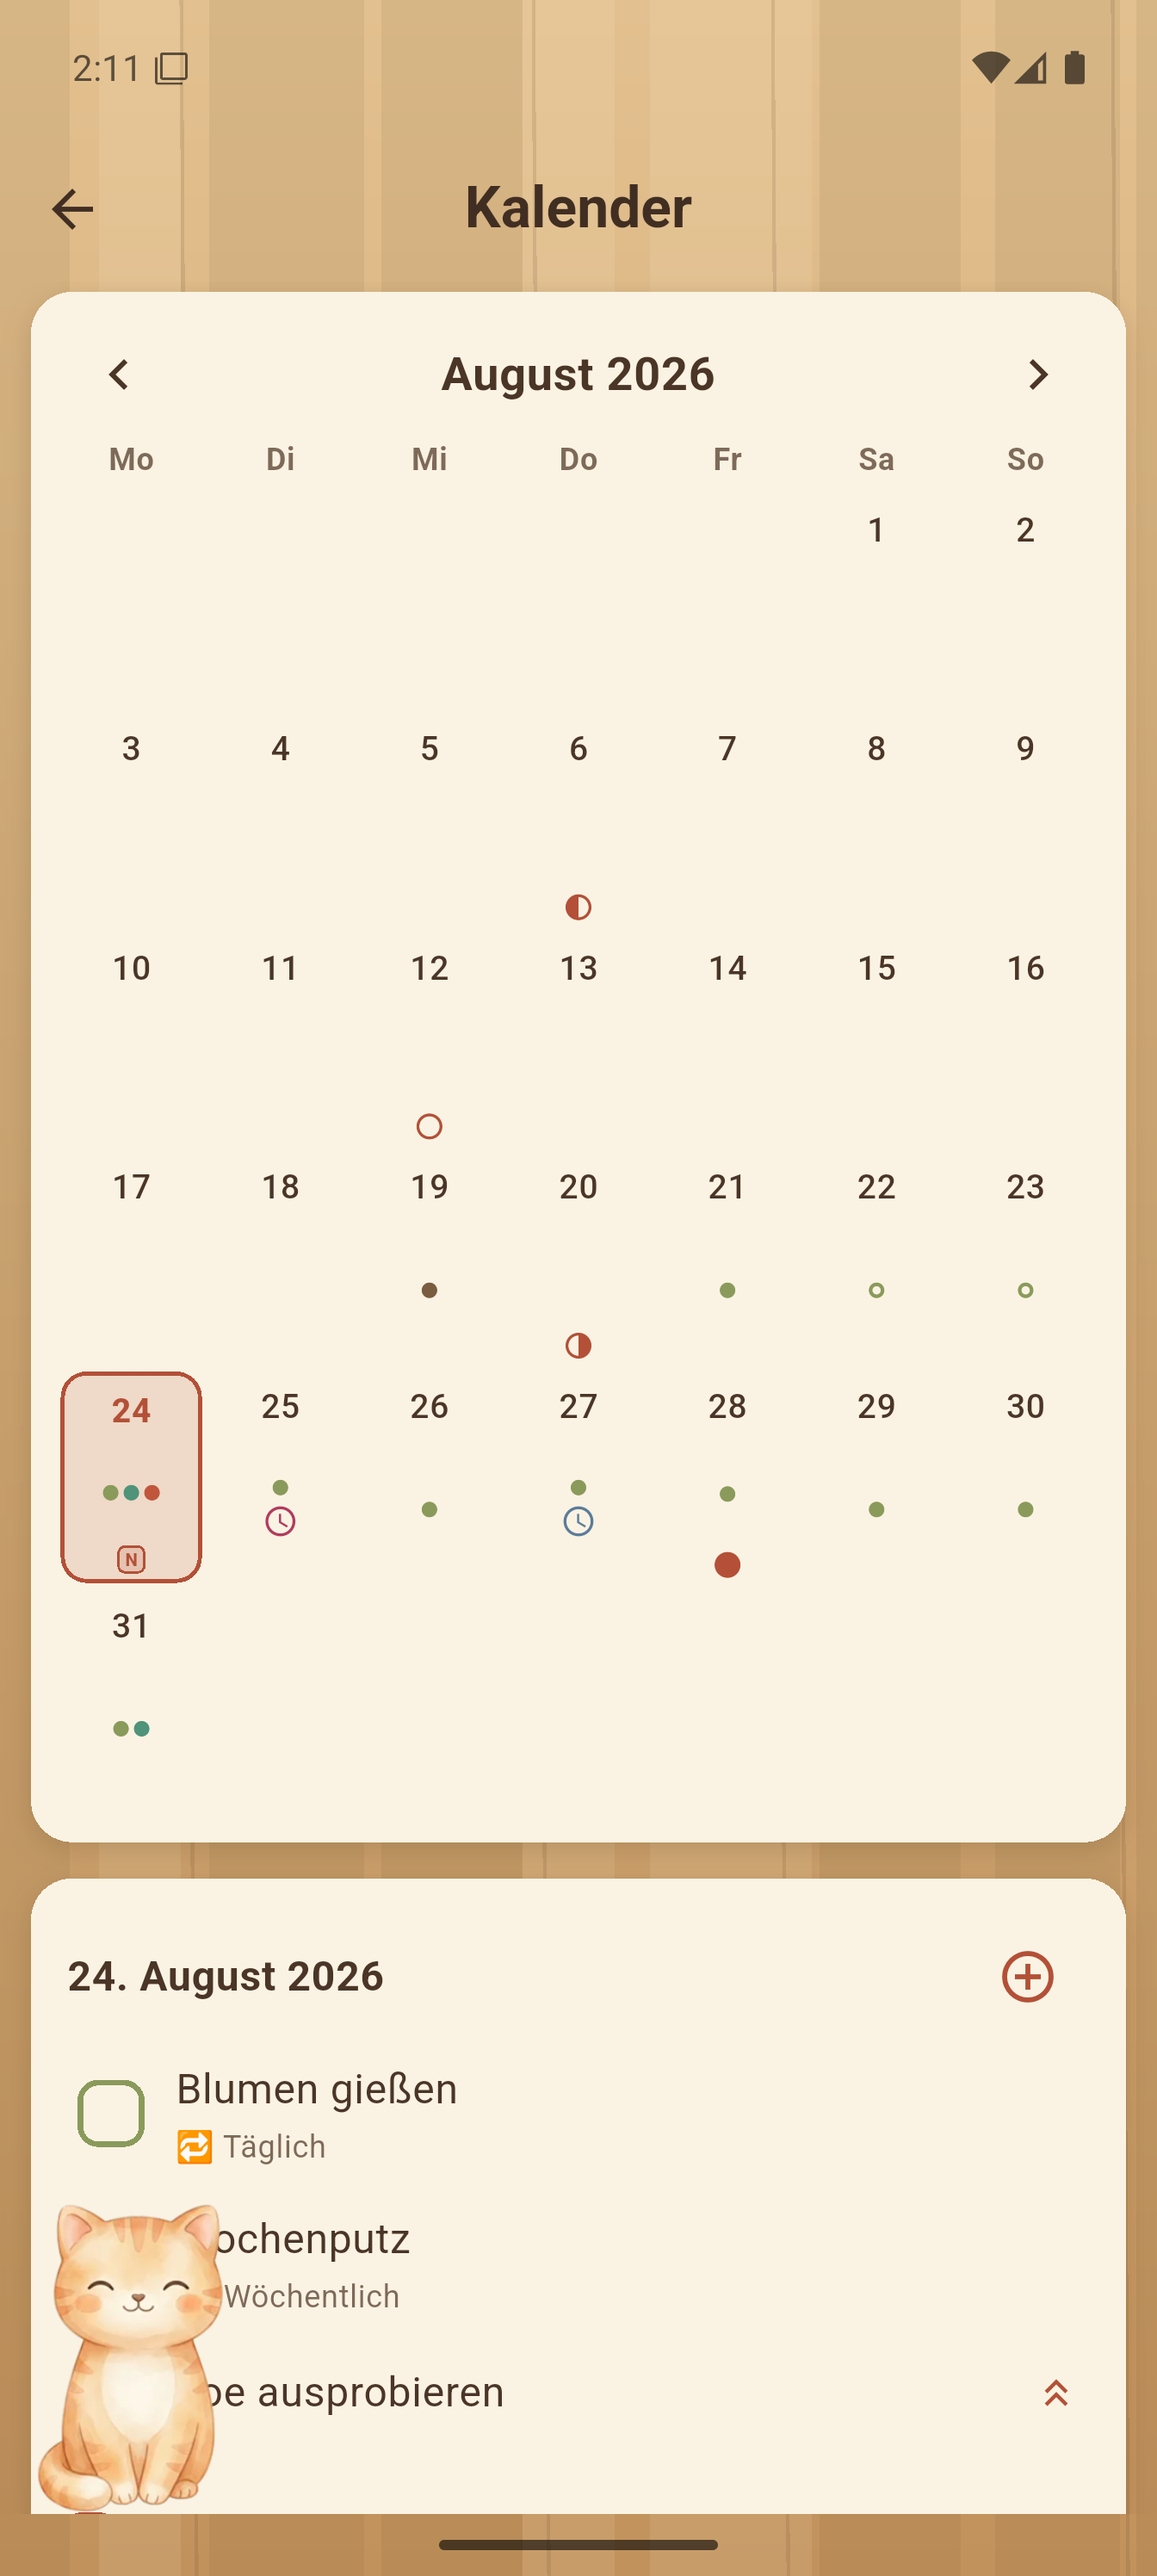
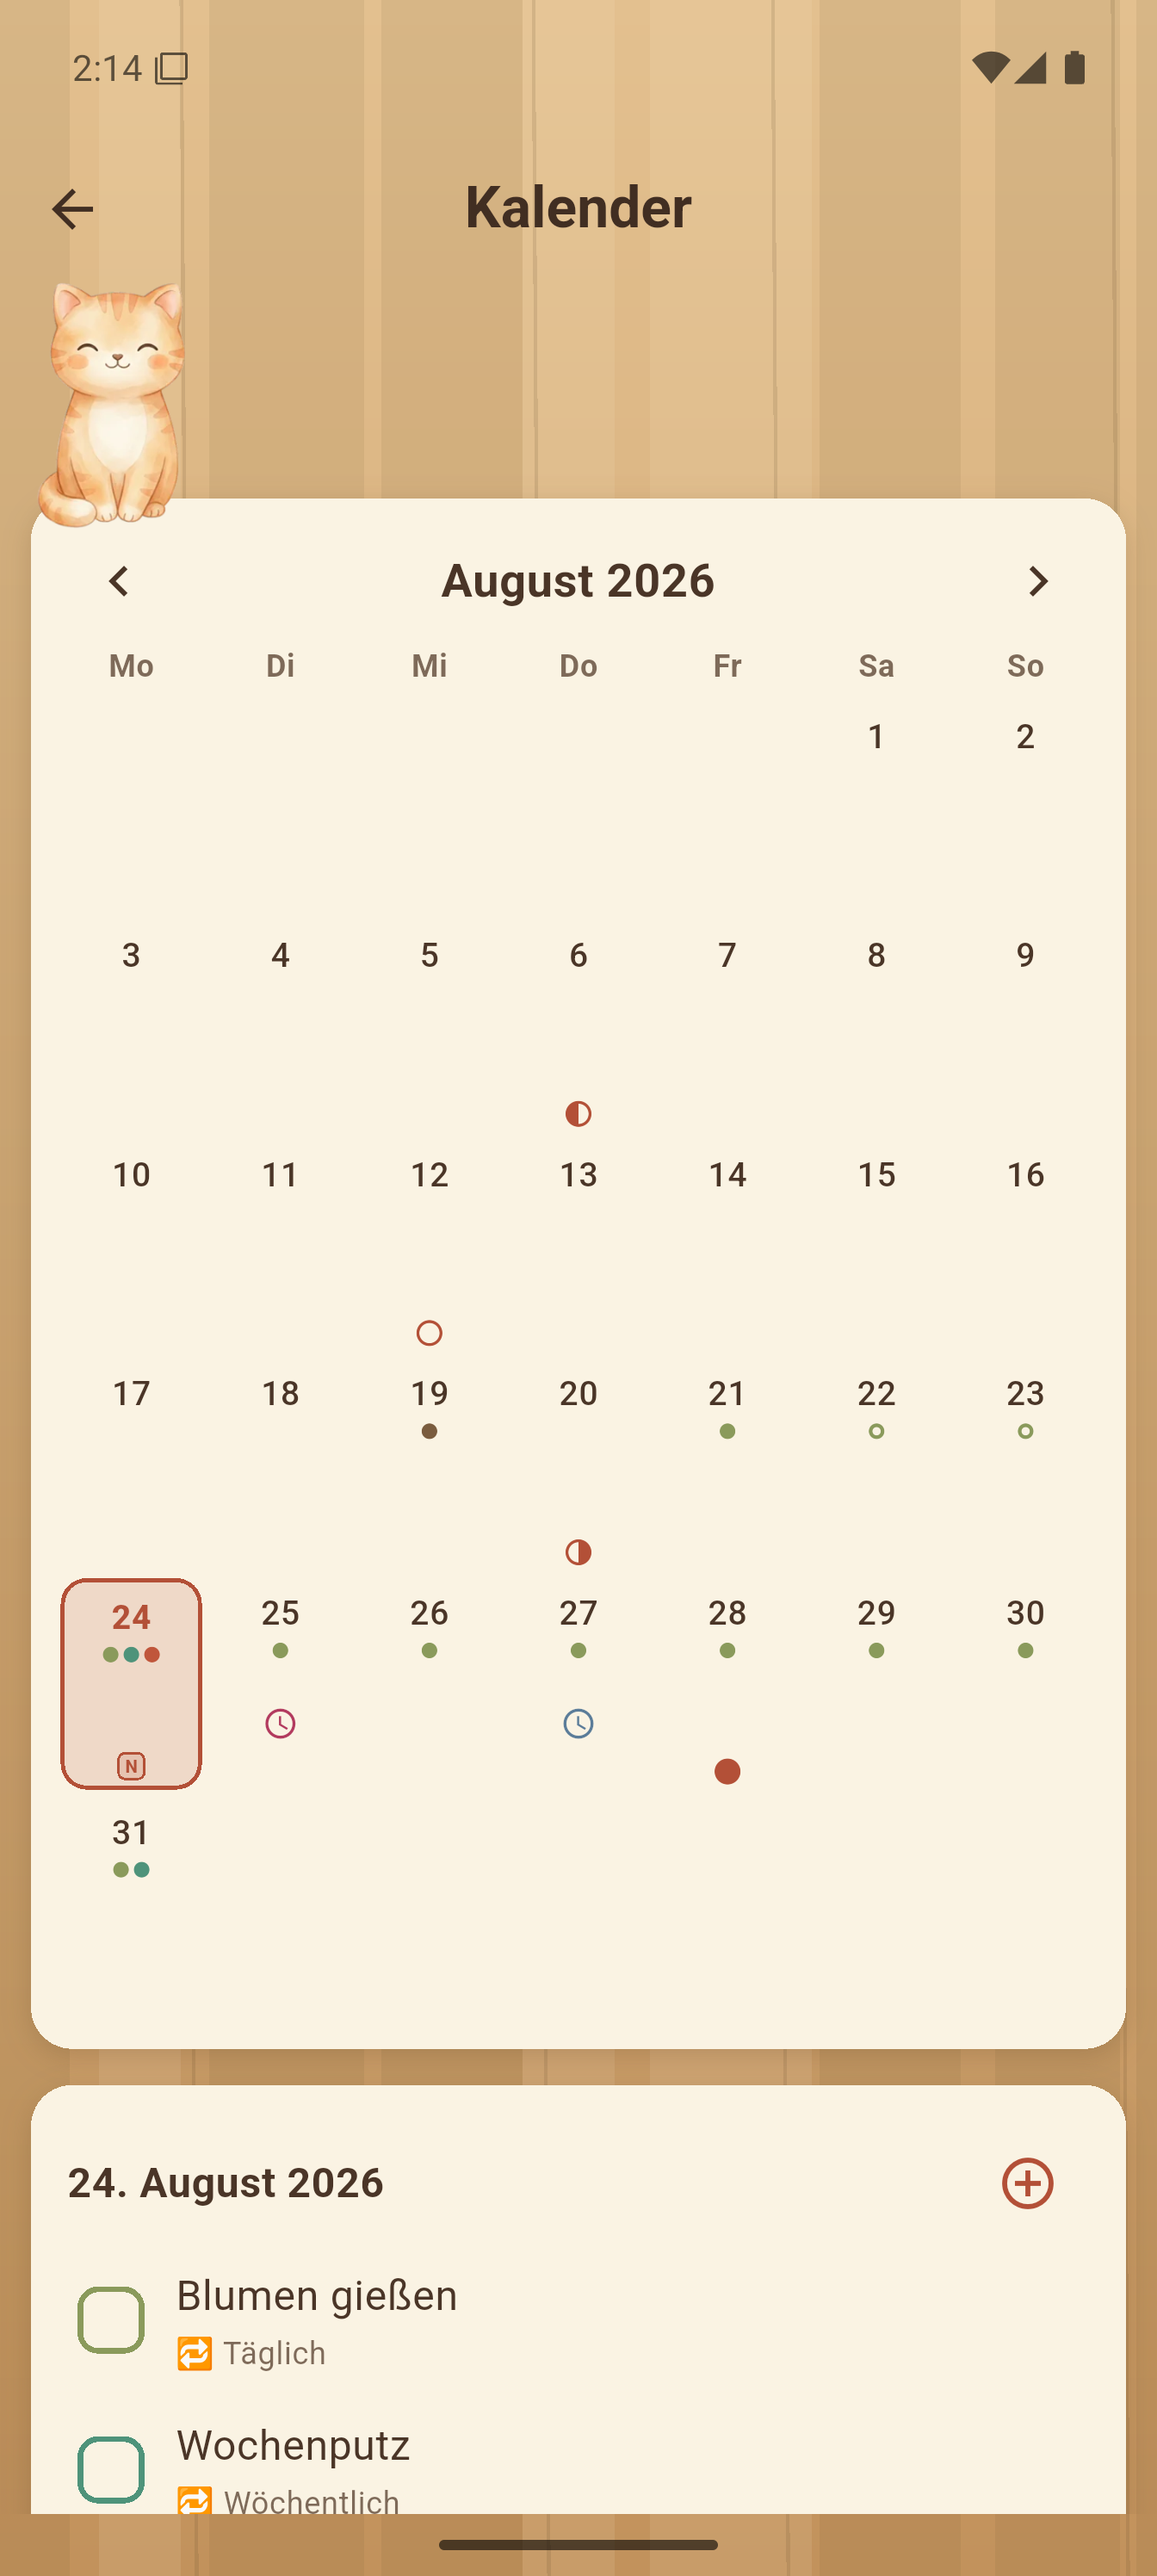
joe-todo: nur die Uhr rueckt in die Mitte, die Punkte bleiben oben
Der Griff davor hat zu viel bewegt: die Punktreihe der Aufgaben rutschte mit
in die Mitte und stand nicht mehr direkt unter der Zahl. Die Punkte gehoeren
aber dorthin, wo sie waren.

Die Punkte sitzen also wieder oben unter der Zahl, und nur die Uhrenreihe
steht mittig im freien Platz darunter, ueber der Zeichenzeile. Groesse (14),
FittedBox und die drei Uhren bleiben.

Claude-Session: https://claude.ai/code/session_01GTTHh3KS7ZpoGwavN3S3nZ

diff --git a/app/lib/screens/calendar.dart b/app/lib/screens/calendar.dart
@@ -505,37 +505,36 @@ class _DayCell extends StatelessWidget {
                 ),
               ),
               const SizedBox(height: 2),
-              // Aufgaben und Termine stehen zusammen in der Mitte des
-              // Kaestchens: oben die Punkte, darunter die Uhren. Vorher
-              // drueckte der Expanded die Uhrenreihe an den unteren Rand,
-              // dicht an die Zeichenzeile.
+              // Oben die Aufgaben als Punkte, direkt unter der Zahl …
               Expanded(
                 child: Column(
-                  mainAxisAlignment: MainAxisAlignment.center,
                   children: [
-                    Flexible(
-                      child: Wrap(
-                        alignment: WrapAlignment.center,
-                        spacing: 2,
-                        runSpacing: 2,
-                        children: markers.take(6).toList(),
-                      ),
+                    Wrap(
+                      alignment: WrapAlignment.center,
+                      spacing: 2,
+                      runSpacing: 2,
+                      children: markers.take(6).toList(),
                     ),
-                    // Die Termine in der Farbe des jeweiligen Termins. Die
-                    // FittedBox laesst sie auf schmalen Telefonen kleiner
-                    // werden, statt die Zelle ueberlaufen zu lassen.
-                    if (clocks.isNotEmpty)
-                      Padding(
-                        padding: EdgeInsets.only(top: markers.isEmpty ? 0 : 3),
-                        child: FittedBox(
-                          fit: BoxFit.scaleDown,
-                          child: Row(
-                            mainAxisSize: MainAxisSize.min,
-                            spacing: 2,
-                            children: clocks.take(3).toList(),
-                          ),
-                        ),
-                      ),
+                    // … und die Termine als eigene Reihe von Uhren, in der
+                    // Farbe des jeweiligen Termins. Sie steht mittig im
+                    // freien Platz zwischen Punkten und Zeichenzeile –
+                    // vorher klebte sie unten an den Zeichen. Die FittedBox
+                    // laesst sie auf schmalen Telefonen kleiner werden,
+                    // statt die Zelle ueberlaufen zu lassen.
+                    Expanded(
+                      child: clocks.isEmpty
+                          ? const SizedBox.shrink()
+                          : Center(
+                              child: FittedBox(
+                                fit: BoxFit.scaleDown,
+                                child: Row(
+                                  mainAxisSize: MainAxisSize.min,
+                                  spacing: 2,
+                                  children: clocks.take(3).toList(),
+                                ),
+                              ),
+                            ),
+                    ),
                   ],
                 ),
               ),
